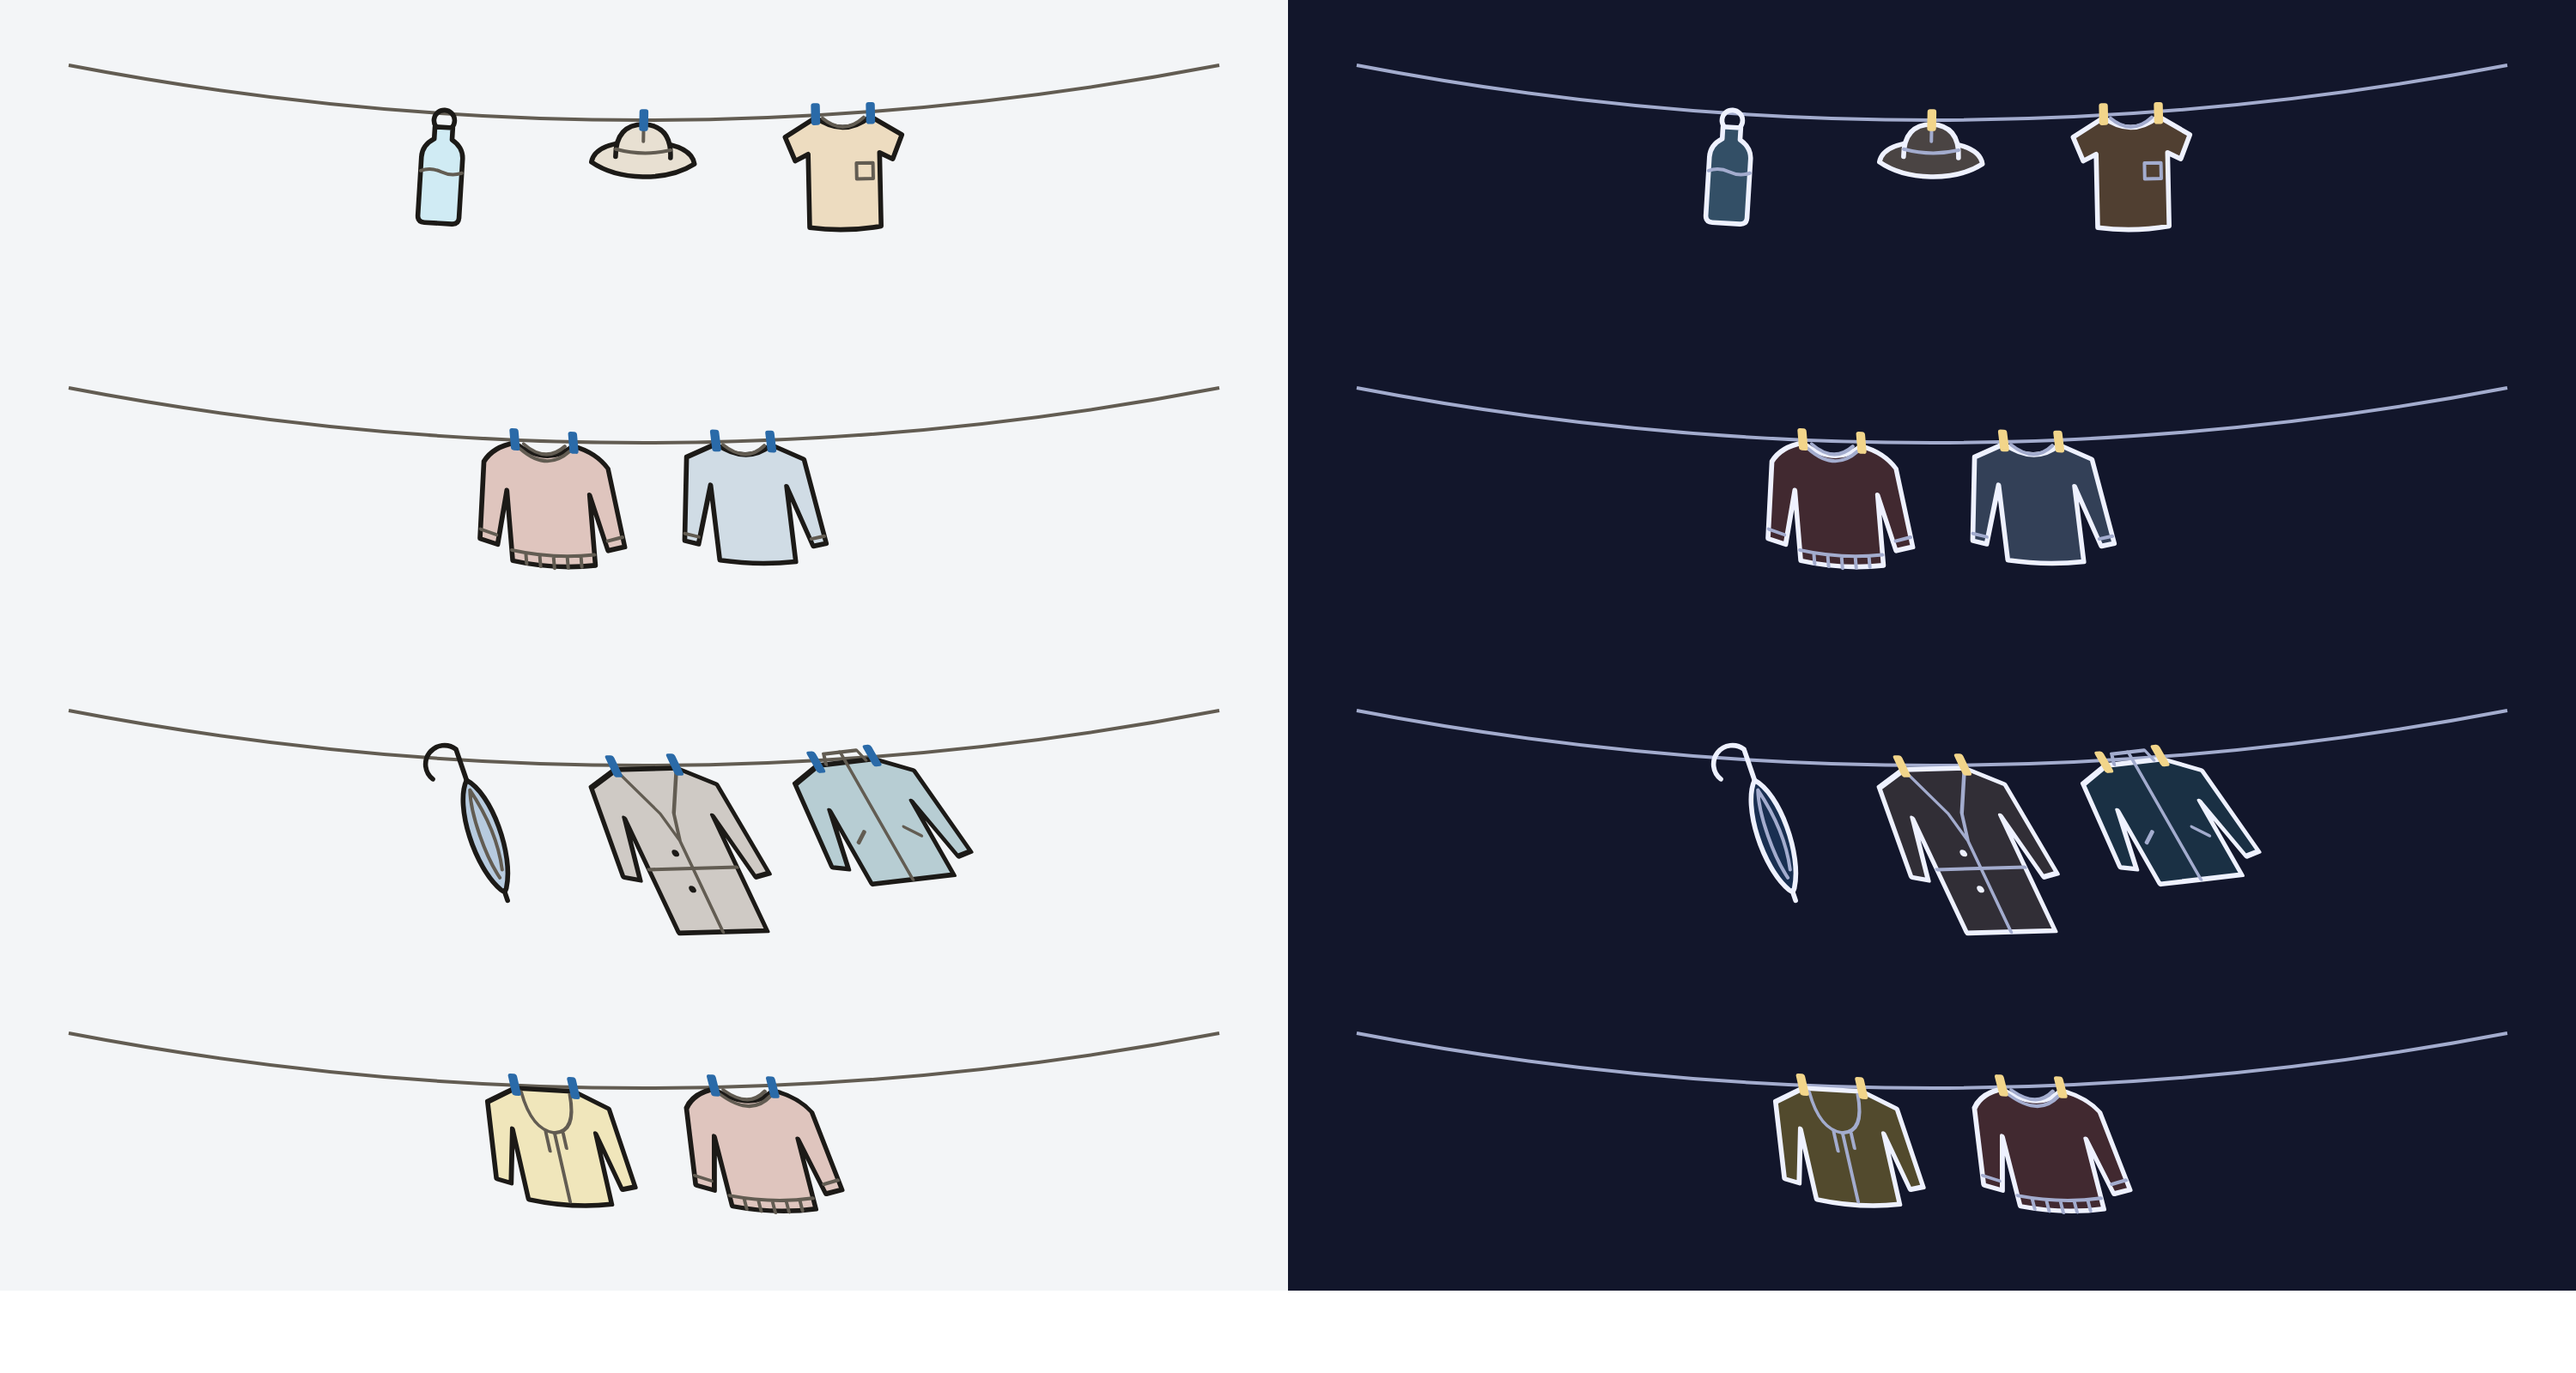
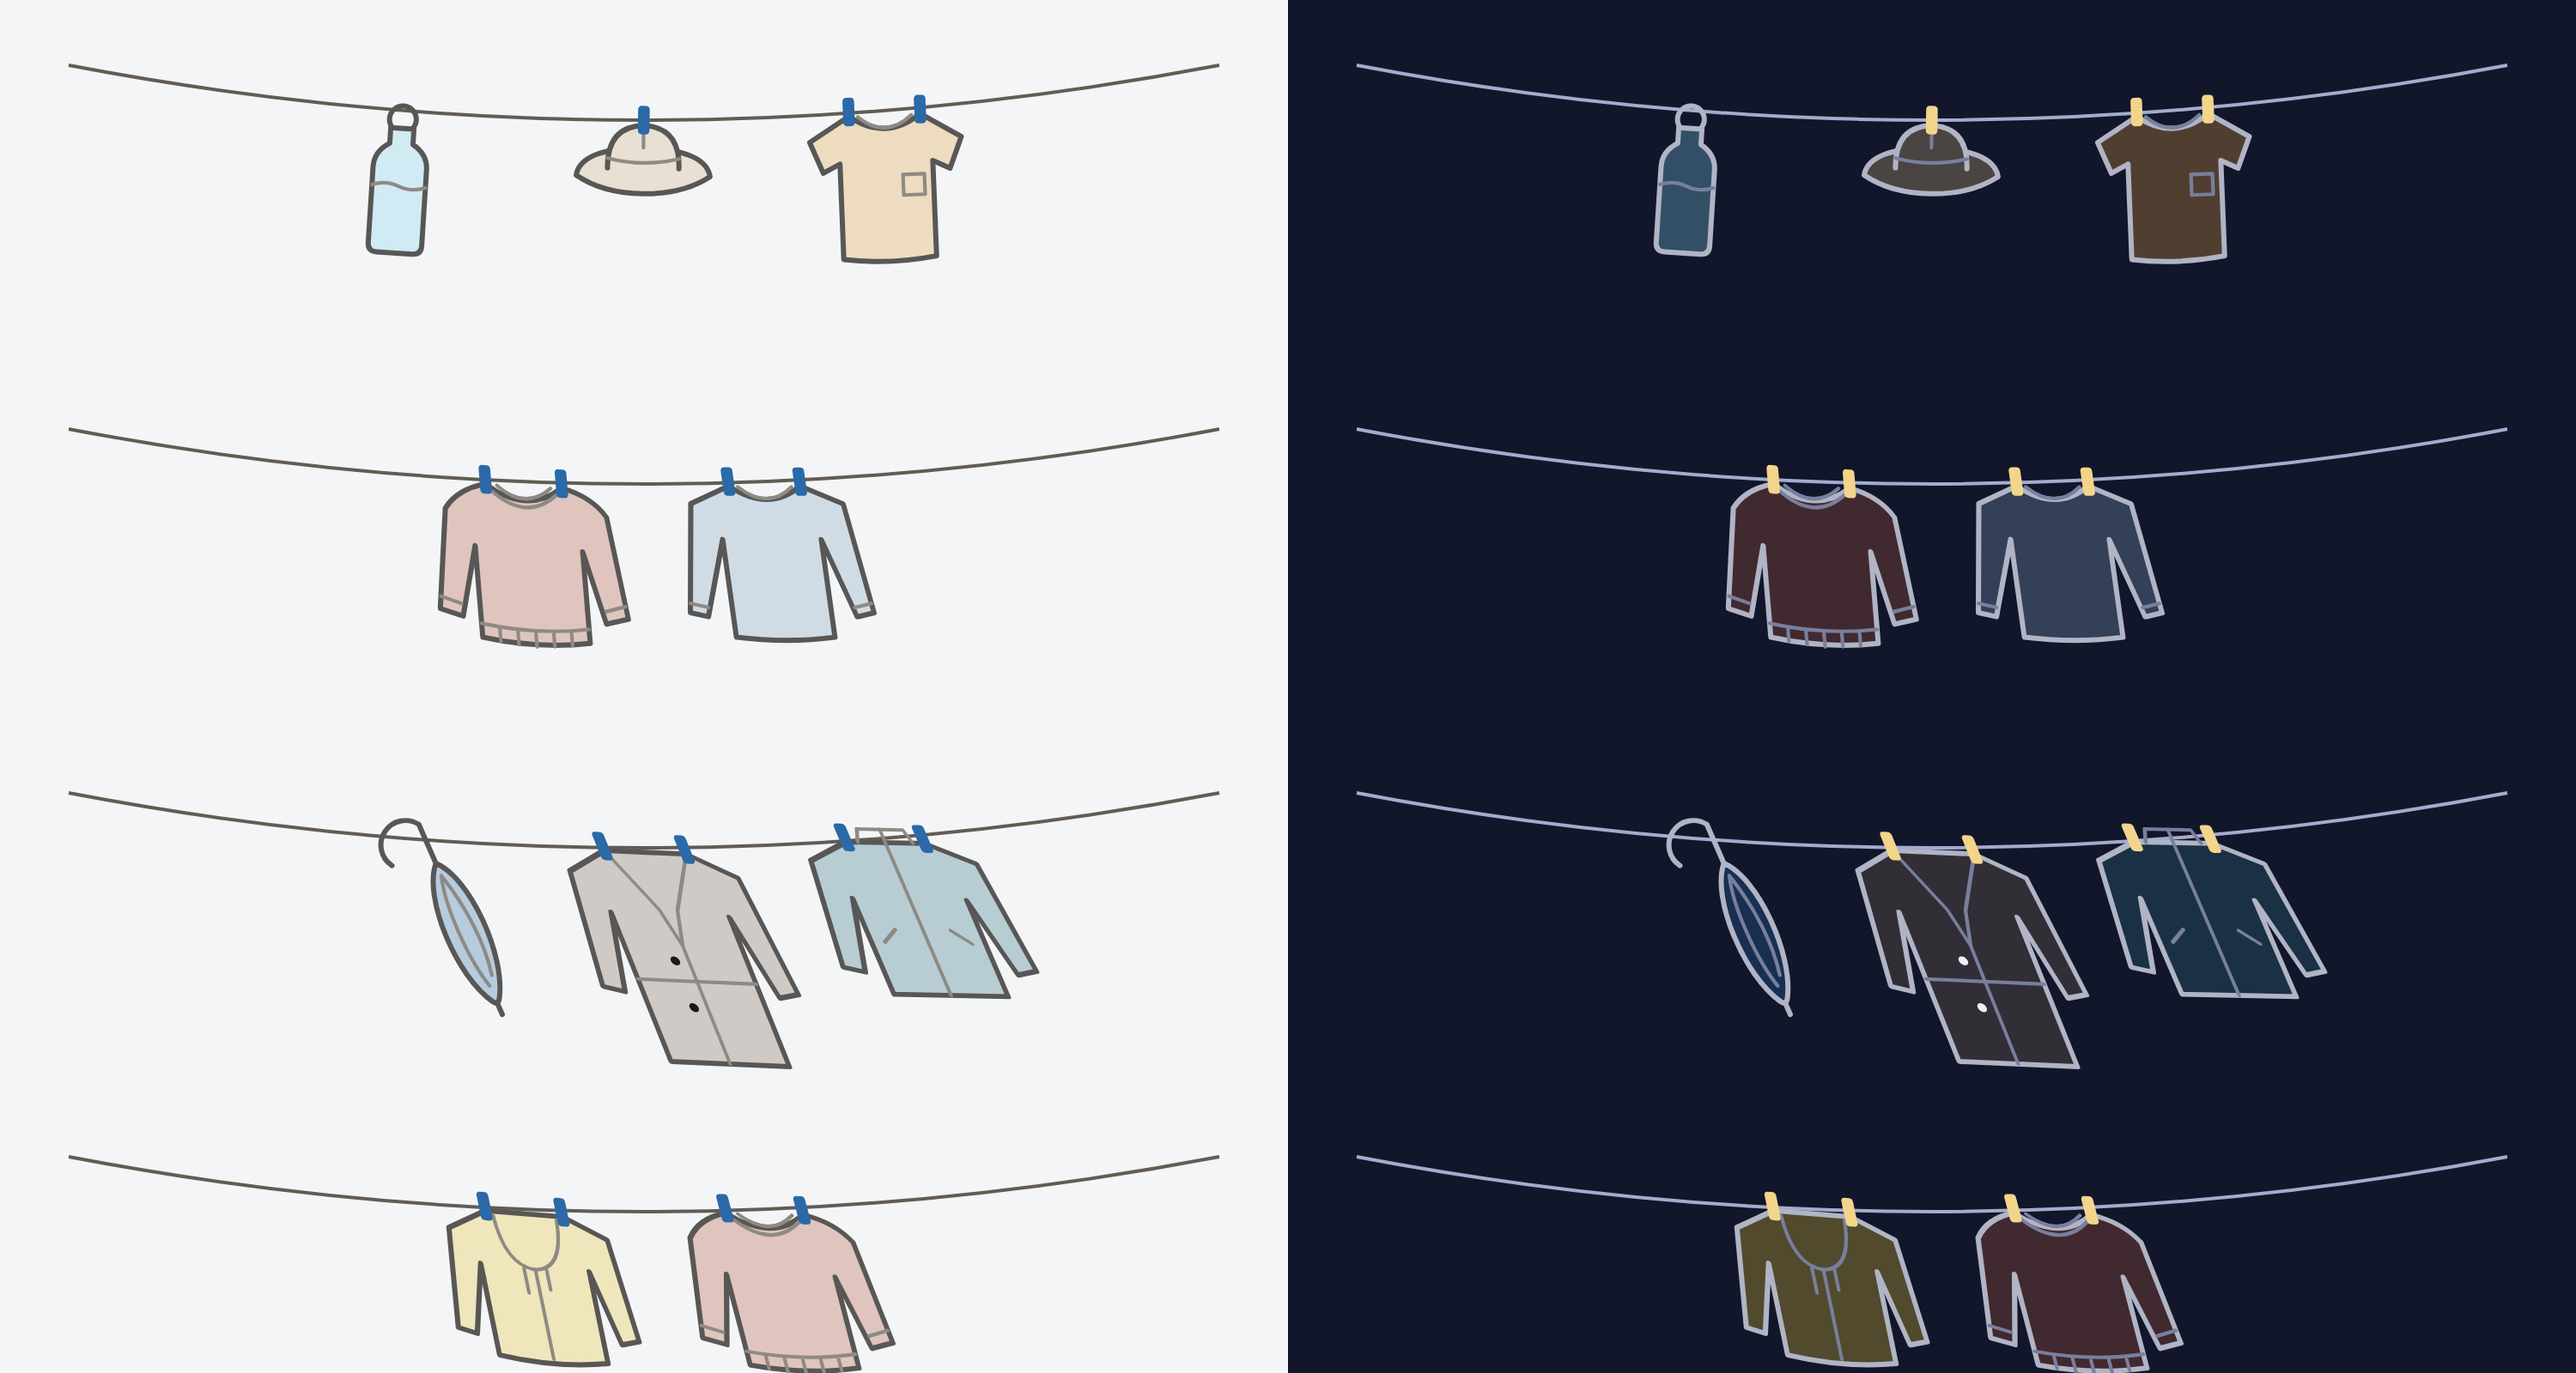
Wear line: softer outline, garments 1.3x (Fable); clothesline in TASKS

diff --git a/src/ui/wear/WearLine.tsx b/src/ui/wear/WearLine.tsx
@@ -4,10 +4,12 @@ import { GARMENTS } from './garments'
 import styles from './WearLine.module.css'
 
 const W = 335
-const H = 62
+const H = 78
 const END_Y = 7
 const SAG = 16
-const STEP = 58
+const STEP = 70
+/** Garments are drawn ~34 px wide; on a full-width line they read best a third larger. */
+const SCALE = 1.3
 
 /** Height of the sagging line at x (a quadratic from end to end, deepest in the middle). */
 const lineY = (x: number) => END_Y + 4 * SAG * (x / W) * (1 - x / W)
@@ -32,7 +34,7 @@ export function WearLine({ garments, wind }: Pick<WearTip, 'garments' | 'wind'>)
         // Pegged cloth keeps its top on the line and its hem blows out (skew); hooked things swing (rotate).
         const blown = item.hook ? `rotate(${(-lean).toFixed(1)})` : `skewX(${lean.toFixed(1)})`
         return (
-          <g key={g} transform={`translate(${x.toFixed(1)} ${y.toFixed(1)}) rotate(${(tilt * 0.6).toFixed(1)}) ${blown}`}>
+          <g key={g} transform={`translate(${x.toFixed(1)} ${y.toFixed(1)}) rotate(${(tilt * 0.6).toFixed(1)}) scale(${SCALE}) ${blown}`}>
             <g className={styles.item} style={{ animationDelay: `${-i * 0.7}s`, '--cloth': item.cloth } as CSSProperties}>
               {item.body}
               {item.pegs.map((px) => <rect key={px} className={styles.peg} x={px - 1.3} y={-3.2} width={2.6} height={6.4} rx={0.8} />)}

diff --git a/src/ui/wear/WearLine.module.css b/src/ui/wear/WearLine.module.css
@@ -3,7 +3,7 @@
   width: 100%;
   max-width: 335px;
   height: auto;
-  margin: 0 auto var(--space-2);
+  margin: 0 auto var(--space-1);
   overflow: visible;
 }
 
@@ -17,21 +17,22 @@
 .item path,
 .item circle {
   fill: color-mix(in srgb, var(--cloth) 30%, var(--sheet));
-  stroke: var(--sheet-ink);
-  stroke-width: 1.4;
+  /* Softer than full ink (it would read as a sticker beside the thin icons): ~1.5 px at the 1.3 scale. */
+  stroke: color-mix(in srgb, var(--sheet-ink) 72%, var(--sheet));
+  stroke-width: 1.15;
   stroke-linejoin: round;
   stroke-linecap: round;
 }
 
 .item :global(.seam) {
   fill: none;
-  stroke: var(--sheet-muted);
-  stroke-width: 1;
+  stroke: color-mix(in srgb, var(--sheet-muted) 70%, var(--sheet));
+  stroke-width: 0.8;
 }
 
 .item :global(.seam.strong) {
-  stroke: var(--sheet-ink);
-  stroke-width: 1.4;
+  stroke: color-mix(in srgb, var(--sheet-ink) 72%, var(--sheet));
+  stroke-width: 1.15;
 }
 
 .item :global(.dot) {

diff --git a/TASKS.md b/TASKS.md
@@ -267,7 +267,16 @@ Fable critique before → build → Fable critique after (verdict: belongs; its 
 - [ ] Not verified: real rain/dust/heat weeks (only synthetic data); a phone; screen reader; 200% text checked by eye
       at night only; no component tests (vitest is node-only); the rows' tap affordance without chevrons is a judgment call
 - [ ] Later (Fable): the hard straight seam between valley and sheet
-- Who wrote what: all code and the hazy-sun / ridge glyphs by Claude Opus 5.5 (main thread); Fable critiques only;
+- [x] Wear card clothesline (owner: "draw the clothes, not generic"): `wear/WearLine.tsx` + `wear/garments.tsx` —
+      the day's clothes pegged on a sagging line in the sentence's order (tee / long sleeve / sweater / jacket / coat,
+      + umbrella or rain jacket, + sun hat / water bottle); `wear.ts` returns `garments` + `wind`; pegged cloth skews
+      and hooked things swing with the day's max wind (downwind from today's direction; tomorrow assumes the westerly);
+      sway slower in still air, off under reduced motion. Specimen: `docs/design/qa/wear-specimen.html` →
+      `wear-line-specimen.png`. Fable: keep it; softer outline + 1.3× scale done
+  - [ ] Later (Fable): pivot from the pegs with a lagging hem instead of a whole-garment skew; let the line lift in
+        wind; a slight hem drift on calm days
+  - [ ] Not verified: the motion by a reviewer (stills only); tomorrow's wind direction (assumed); a phone
+- Who wrote what: all code and the hazy-sun / ridge / garment glyphs by Claude Opus 5.5 (main thread); Fable critiques only;
   Codex not used — the owner's routing (UI code → Codex sol 6.2, judged from 375 px stills, Opus redo if weak;
   glyphs stay with Claude) arrived after this PR was opened, so 6.2 is untested here. Apply it to the next UI pass.
 
